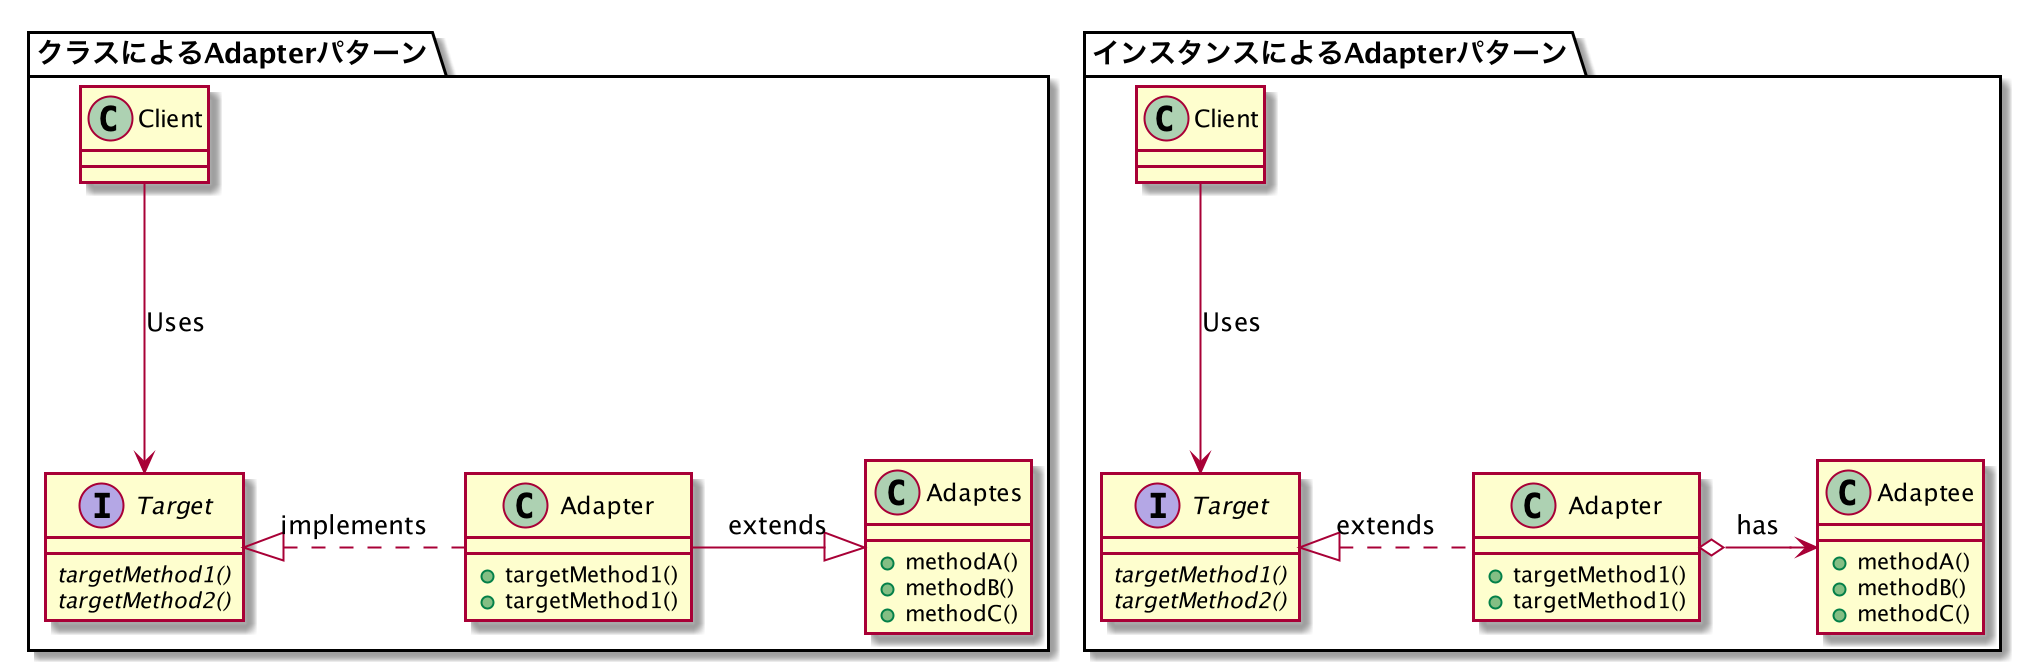
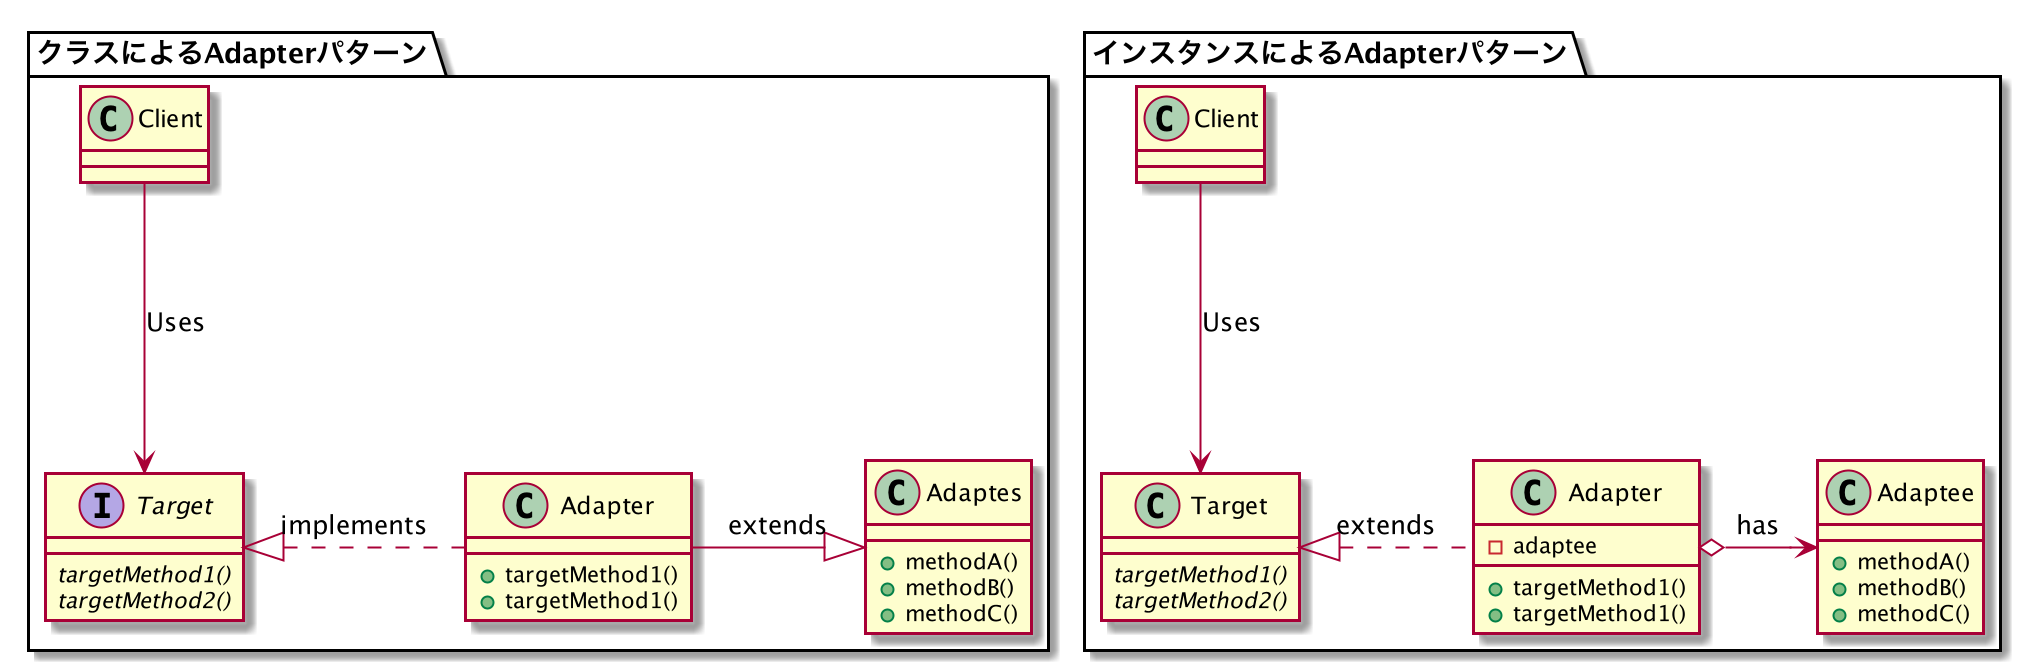
Chapter 02 Adapter

Changed region(s): [[0.7096, 0.6562, 0.8639, 0.9688], [0.5553, 0.7188, 0.617, 0.7812]]

diff --git a/src/chap02_Adapter/instance_pattern/Banner.java b/src/chap02_Adapter/instance_pattern/Banner.java
@@ -1,0 +1,14 @@
+package chap02_Adapter.instance_pattern;
+
+public class Banner {
+    private String string;
+    public Banner(String string){
+        this.string = string;
+    }
+    public void showWithParen(){
+        System.out.println("(" + string + ")");
+    }
+    public void showWithAster(){
+        System.out.println("*" + string + "*");
+    }
+}

diff --git a/src/chap02_Adapter/instance_pattern/PrintBanner.java b/src/chap02_Adapter/instance_pattern/PrintBanner.java
@@ -1,0 +1,14 @@
+package chap02_Adapter.instance_pattern;
+
+public class PrintBanner extends Print{
+    private Banner banner;
+    public PrintBanner(String string){
+        this.banner = new Banner(string);
+    }
+    public void printWeak(){
+        banner.showWithParen();
+    }
+    public void printStrong(){
+        banner.showWithAster();
+    }
+}

diff --git a/src/chap02_Adapter/class_pattern/PrintBanner.java b/src/chap02_Adapter/class_pattern/PrintBanner.java
@@ -1,6 +1,6 @@
-package chap02_Adapter;
+package chap02_Adapter.class_pattern;
 
-public class PrintBanner extends Banner implements Print{
+public class PrintBanner extends Banner implements Print {
     public PrintBanner(String string){
         super(string);
     }

diff --git a/src/chap02_Adapter/instance_pattern/Main.java b/src/chap02_Adapter/instance_pattern/Main.java
@@ -1,0 +1,9 @@
+package chap02_Adapter.instance_pattern;
+
+public class Main {
+    public static void main(String[] args) {
+        Print p = new PrintBanner("Hello");
+        p.printWeak();
+        p.printStrong();
+    }
+}

diff --git a/src/chap02_Adapter/class_pattern/Main.java b/src/chap02_Adapter/class_pattern/Main.java
@@ -1,0 +1,9 @@
+package chap02_Adapter.class_pattern;
+
+public class Main {
+    public static void main(String[] args) {
+        Print p = new PrintBanner("Hello");
+        p.printWeak();
+        p.printStrong();
+    }
+}

diff --git a/src/chap02_Adapter/instance_pattern/Print.java b/src/chap02_Adapter/instance_pattern/Print.java
@@ -1,0 +1,6 @@
+package chap02_Adapter.instance_pattern;
+
+public abstract class Print {
+    public abstract void printWeak();
+    public abstract void printStrong();
+}

diff --git a/src/chap02_Adapter/class_pattern/Print.java b/src/chap02_Adapter/class_pattern/Print.java
@@ -1,4 +1,4 @@
-package chap02_Adapter;
+package chap02_Adapter.class_pattern;
 
 public interface Print {
     public abstract void printWeak();

diff --git a/src/chap02_Adapter/class_pattern/Banner.java b/src/chap02_Adapter/class_pattern/Banner.java
@@ -1,4 +1,4 @@
-package chap02_Adapter;
+package chap02_Adapter.class_pattern;
 
 public class Banner {
     private String string;

diff --git a/README.md b/README.md
@@ -1,2 +1,12 @@
 # design-pattern-java
 Java言語で学ぶデザインパターン入門
+
+## Iterator  
+対象に依存せずIterateできる。  
+Iterateの順序などカスタムできる。
+
+## Adapter
+既存Adapteeに一切手を加えずに流用できる。  
+既存クラスの使用さえ分かれば作れるし、再テストせずに済む。
+
+
